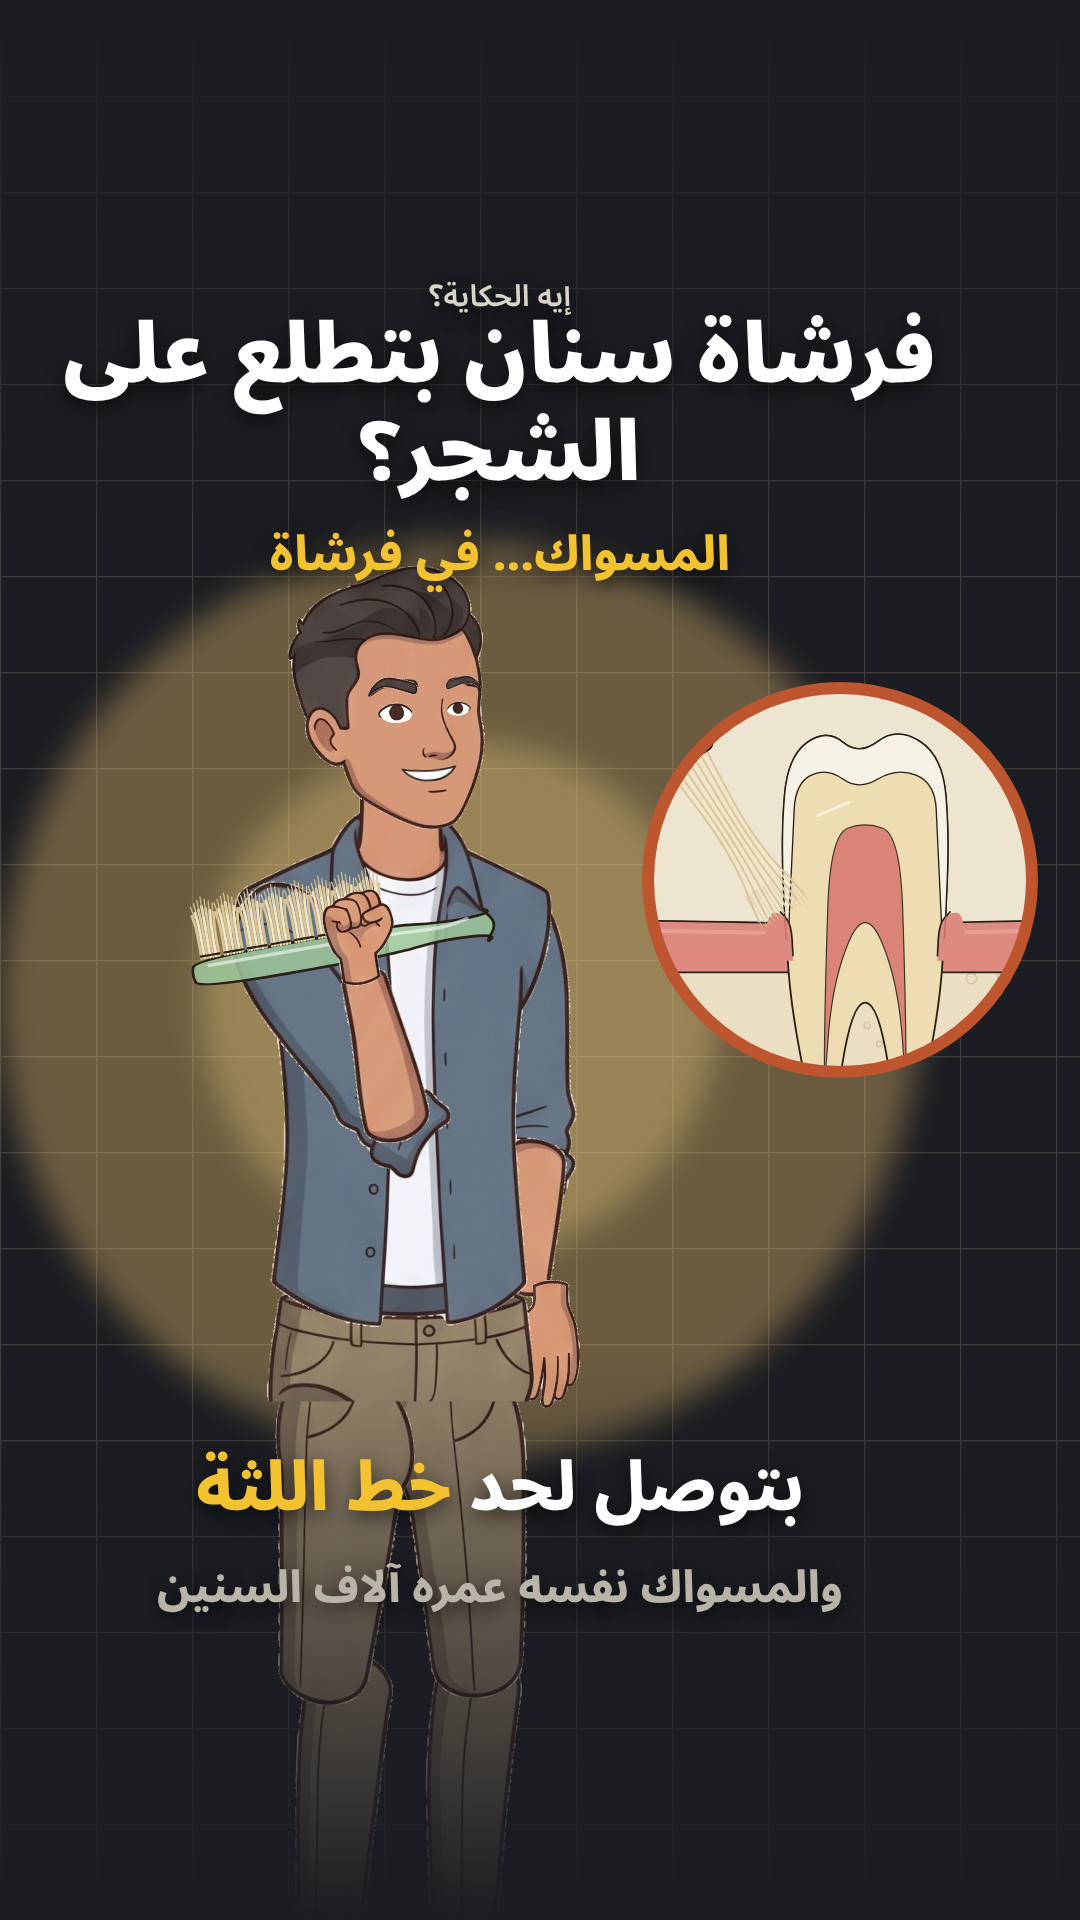
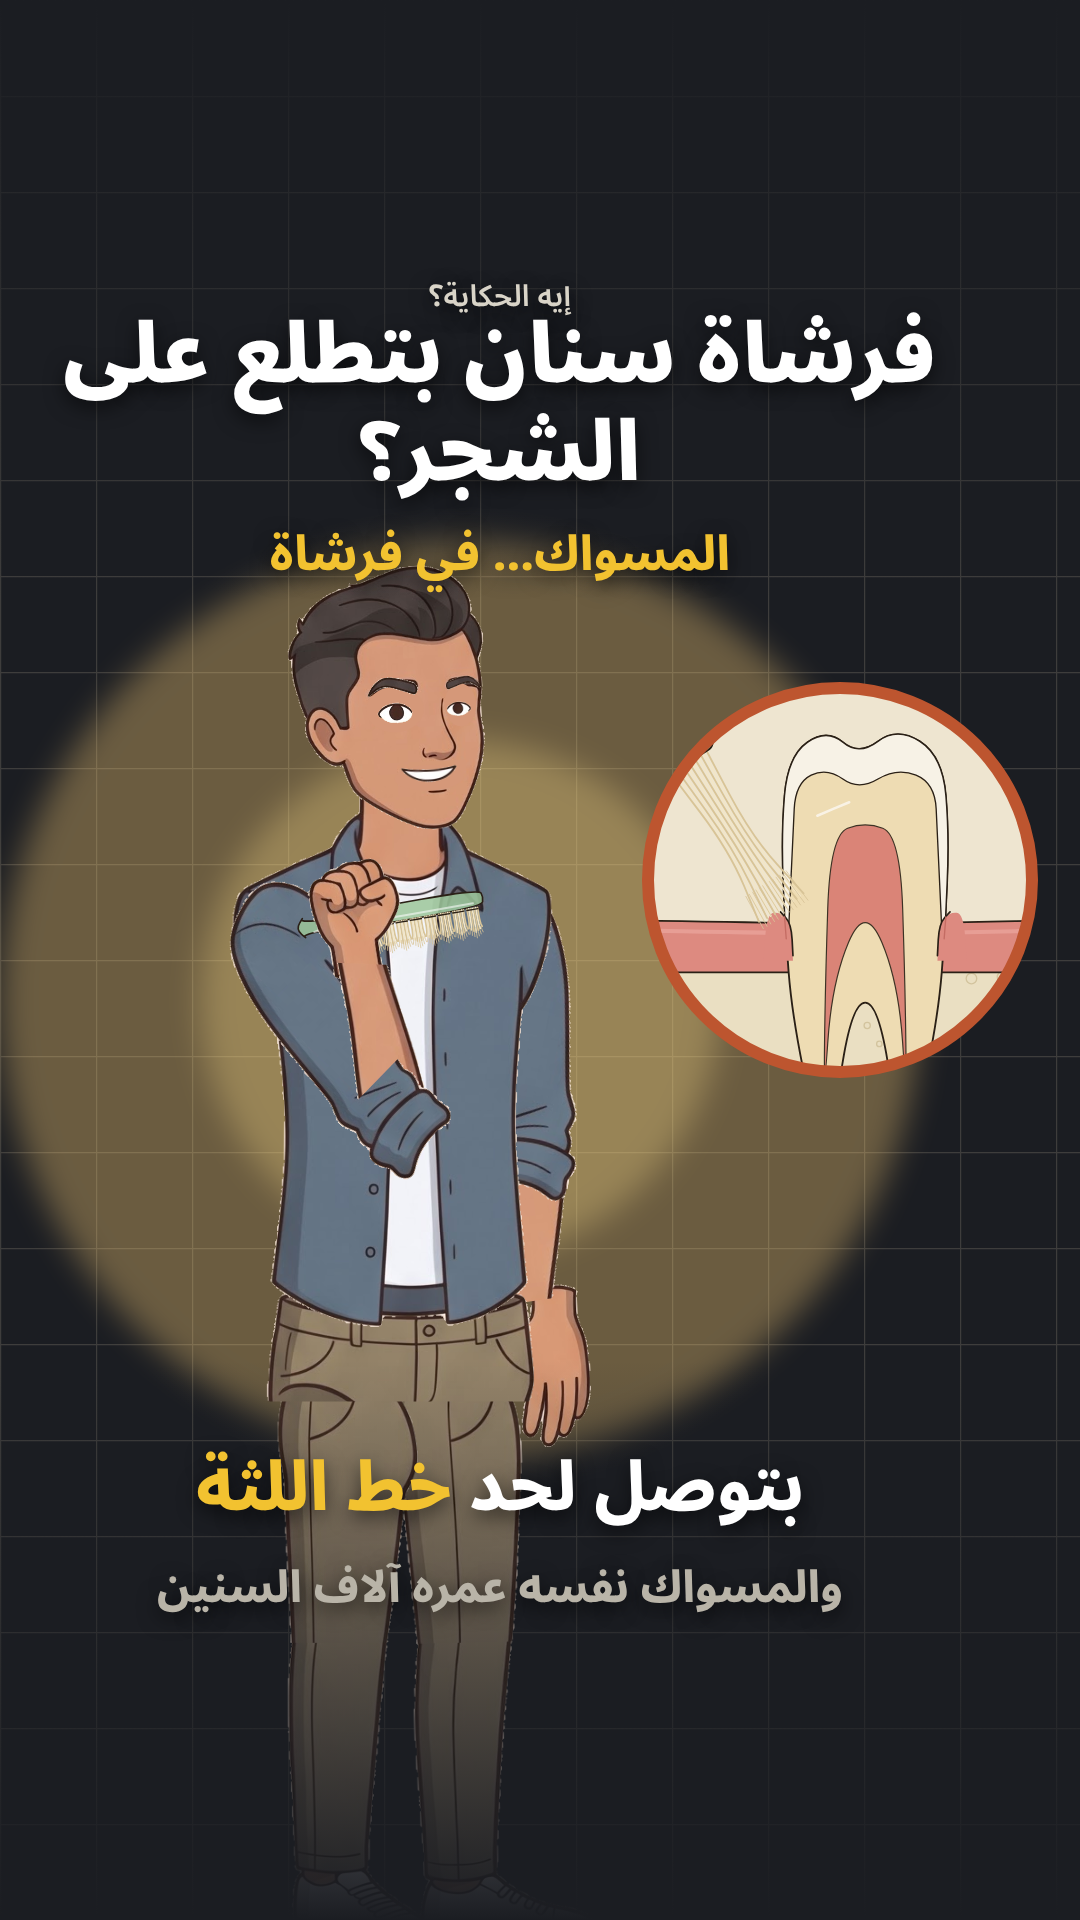
rig: hand flows out of the forearm (no end cap at the wrist), props held in the middle of the fist; miswak and brush at real size
Claude-Session: https://claude.ai/code/session_016TN7FJH1eYNmEmJEpYVqor

diff --git a/videos/_templates/people/gemini/rig.js b/videos/_templates/people/gemini/rig.js
@@ -40,8 +40,8 @@ var SKIN = "#d59879", f = function (n) { return (+n).toFixed(2); }, R = Math.PI 
 function img(name, w, h) { return '<image href="' + base + name + '.png" x="0" y="0" width="' + w + '" height="' + h + '"/>'; }
 // place a part so that its joint a lands on world point A and its axis a→b points along ang (deg)
 var CLIPID = 0;
-function seg(name, A, ang, ja, jb, st, fromY) { var s = SZ[name], phi = Math.atan2(jb[1] - ja[1], jb[0] - ja[0]) / R, inner = img(name, s[0], s[1]);
-  if (fromY != null) { var id = "rgc" + (++CLIPID); inner = '<clipPath id="' + id + '"><rect x="0" y="' + fromY + '" width="' + s[0] + '" height="' + (s[1] - fromY) + '"/></clipPath><g clip-path="url(#' + id + ')">' + inner + '</g>'; }   // only the part below fromY (the rolled cuff)
+function seg(name, A, ang, ja, jb, st, fromY, toY) { var s = SZ[name], phi = Math.atan2(jb[1] - ja[1], jb[0] - ja[0]) / R, inner = img(name, s[0], s[1]);
+  if (fromY != null || toY != null) { var y0 = fromY || 0, y1 = toY || s[1], id = "rgc" + (++CLIPID); inner = '<clipPath id="' + id + '"><rect x="0" y="' + y0 + '" width="' + s[0] + '" height="' + (y1 - y0) + '"/></clipPath><g clip-path="url(#' + id + ')">' + inner + '</g>'; }   // only rows y0..y1 of the part (the rolled cuff; the forearm without its end cap)
   return '<g transform="translate(' + f(A[0]) + ' ' + f(A[1]) + ') rotate(' + f(ang) + ') scale(' + f(st || 1) + ' 1) rotate(' + f(-phi) + ') translate(' + f(-ja[0]) + ' ' + f(-ja[1]) + ')">' + inner + '</g>'; }
 function end(A, ang, ja, jb, st) { var L = Math.hypot(jb[0] - ja[0], jb[1] - ja[1]) * (st || 1); return [A[0] + Math.cos(ang * R) * L, A[1] + Math.sin(ang * R) * L]; }
 function hand(kind, W, ang, two) { var h = HAND[kind] || HAND.relaxed, s = (two ? HS2 : HS)[kind] || HS.relaxed, nm = (two ? "hand2-" : "hand-") + (HAND[kind] ? kind : "relaxed");
@@ -76,11 +76,11 @@ function build(p, x, fy, h, t, wantJoints) {
   var TT = function (j) { var dx = j[0] - tor.hip[0], dy = j[1] - tor.hip[1], a = (ta - tphi) * R; return [P[0] + dx * Math.cos(a) - dy * Math.sin(a), P[1] - 8 + br * .3 + dx * Math.sin(a) + dy * Math.cos(a)]; };
   var shN = TT(tor.shN), shF = TT(tor.shF), nk = TT(tor.neck);
   var FST = 1.16;   // the forearm part is drawn short: stretch it to the real forearm length (0.146 H against the upper arm's 0.186 H)
-  function arm(A, sh, nm, two) { var u = nm === "A" ? J.uarmA : J.uarmB, fr = nm === "A" ? J.farmA : J.farmB, el = end(sh, A[0], u[0], u[1]), wr0 = end(el, A[1], fr[0], fr[1], FST), wr = end(el, A[1], fr[0], fr[1], FST * .94);
-    var ha = A[1] + (A[3] || 0), prop = A[4] ? '<g transform="translate(' + f(wr[0]) + ' ' + f(wr[1]) + ') rotate(' + f(ha) + ')">' + A[4] + '</g>' : "";
+  function arm(A, sh, nm, two) { var u = nm === "A" ? J.uarmA : J.uarmB, fr = nm === "A" ? J.farmA : J.farmB, el = end(sh, A[0], u[0], u[1]), wr0 = end(el, A[1], fr[0], fr[1], FST), wr = end(el, A[1], fr[0], fr[1], FST * .9);
+    var ha = A[1] + (A[3] || 0), prop = A[4] ? '<g transform="translate(' + f(wr[0]) + ' ' + f(wr[1]) + ') rotate(' + f(ha) + ') translate(62 0)">' + A[4] + '</g>' : "";   // the grip is ~62 px past the wrist, in the curled fingers
     // upper arm, then hand and forearm over it (a bent arm folds in front), then the rolled cuff again round the elbow
     var cuffY = nm === "A" ? 248 : 244;
-    return { svg: seg("uarm" + nm, sh, A[0], u[0], u[1]) + prop + hand(A[2] || "relaxed", wr, ha, two) + seg("farm" + nm, el, A[1], fr[0], fr[1], FST) + seg("uarm" + nm, sh, A[0], u[0], u[1], 1, cuffY), wr: wr, el: el, ha: ha }; }
+    return { svg: seg("uarm" + nm, sh, A[0], u[0], u[1]) + prop + hand(A[2] || "relaxed", wr, ha, two) + seg("farm" + nm, el, A[1], fr[0], fr[1], FST, null, nm === "A" ? 176 : 160) + seg("uarm" + nm, sh, A[0], u[0], u[1], 1, cuffY), wr: wr, el: el, ha: ha }; }
   function leg(L, hip, nm) { if (Math.abs(L[0] - L[1]) < 8) return seg("leg" + nm, hip, (L[0] + L[1]) / 2, J["leg" + nm][0], J["leg" + nm][1]);
     var th = J["thigh" + nm], sh = J["shin" + nm], kn = end(hip, L[0], th[0], th[1]);
     return seg("shin" + nm, kn, L[1], sh[0], sh[1]) + seg("thigh" + nm, hip, L[0], th[0], th[1]); }

diff --git a/videos/miswak/sketch/scenes.js b/videos/miswak/sketch/scenes.js
@@ -172,8 +172,8 @@ var CLIPS = { green: 81, bend: 87, pouch: 69, pocket: 84, bag: 72, box: 90, fing
 
 // ── the host as a puppet (gemini/rig.js): poses tween, he blinks, and his mouth follows the narrator ──
 function voiceAt(t) { var i = Math.floor(t * 30); return (window.VENV && window.VENV[i]) || 0; }
-var MISWAK_P = Z.stick(40, -120, 40, 160, 30, { fray: 1 });
-var BRUSH_P = '<g transform="translate(40 0) rotate(90) scale(1.5)">' + Z.brushSide(-120, 0, 210, { miswak: true, taper: true, h: 38, col: "#9cc79a" }) + '</g>';
+var MISWAK_P = Z.stick(0, -150, 0, 110, 22, { fray: .9 });
+var BRUSH_P = '<g transform="rotate(-90) scale(.9)">' + Z.brushSide(-150, 0, 215, { miswak: true, taper: true, h: 30, col: "#9cc79a" }) + '</g>';
 function pose(name, extra) { var p = PERSON.rigPose(name); for (var k in (extra || {})) p[k] = extra[k]; return p; }
 function withProp(p, prop) { p = JSON.parse(JSON.stringify(p)); p.armN = p.armN.slice(0, 4); while (p.armN.length < 4) p.armN.push(0); p.armN.push(prop); return p; }
 // keys: [[u, pose], …] in seconds into the shot; each key eases in over 0.45 s. o.talk: lip-sync to the voice

diff --git a/videos/miswak/sketch/shots.js b/videos/miswak/sketch/shots.js
@@ -6,8 +6,8 @@ var CLIPS = { green: 81, bend: 87, pouch: 69, pocket: 84, bag: 72, box: 90, fing
 
 // ── the host as a puppet (gemini/rig.js): poses tween, he blinks, and his mouth follows the narrator ──
 function voiceAt(t) { var i = Math.floor(t * 30); return (window.VENV && window.VENV[i]) || 0; }
-var MISWAK_P = Z.stick(40, -120, 40, 160, 30, { fray: 1 });
-var BRUSH_P = '<g transform="translate(40 0) rotate(90) scale(1.5)">' + Z.brushSide(-120, 0, 210, { miswak: true, taper: true, h: 38, col: "#9cc79a" }) + '</g>';
+var MISWAK_P = Z.stick(0, -150, 0, 110, 22, { fray: .9 });
+var BRUSH_P = '<g transform="rotate(-90) scale(.9)">' + Z.brushSide(-150, 0, 215, { miswak: true, taper: true, h: 30, col: "#9cc79a" }) + '</g>';
 function pose(name, extra) { var p = PERSON.rigPose(name); for (var k in (extra || {})) p[k] = extra[k]; return p; }
 function withProp(p, prop) { p = JSON.parse(JSON.stringify(p)); p.armN = p.armN.slice(0, 4); while (p.armN.length < 4) p.armN.push(0); p.armN.push(prop); return p; }
 // keys: [[u, pose], …] in seconds into the shot; each key eases in over 0.45 s. o.talk: lip-sync to the voice

diff --git a/brand/eh-elhekaya/cover-miswak-tiktok.html b/brand/eh-elhekaya/cover-miswak-tiktok.html
@@ -28,7 +28,7 @@
     var Z = MW, s = "";
     s += '<rect width="540" height="960" fill="#1b1d22"/><rect width="540" height="960" fill="url(#grid)" opacity=".18"/>';
     s += '<circle cx="230" cy="500" r="230" fill="#ffd27a" opacity=".35" filter="url(#soft)"/><circle cx="230" cy="500" r="130" fill="#ffe08a" opacity=".3" filter="url(#soft)"/>';
-    var brush = '<g transform="translate(40 0) rotate(90) scale(1.5)">' + Z.brushSide(-120, 0, 210, { miswak: true, taper: true, h: 38, col: "#9cc79a" }) + '</g>';
+    var brush = '<g transform="rotate(-90) scale(.9)">' + Z.brushSide(-150, 0, 215, { miswak: true, taper: true, h: 30, col: "#9cc79a" }) + '</g>';
     var p = PERSON.rigPose("show"); p.armN = [60, -100, "fist", 0, brush]; p.mouth = "smile"; p.brows = "raised";
     s += PERSON.rig(p, 200, 960, 700, .2);
     // the inset: one tooth cut from the side, the fine tips at the gum line, ringed in orange
